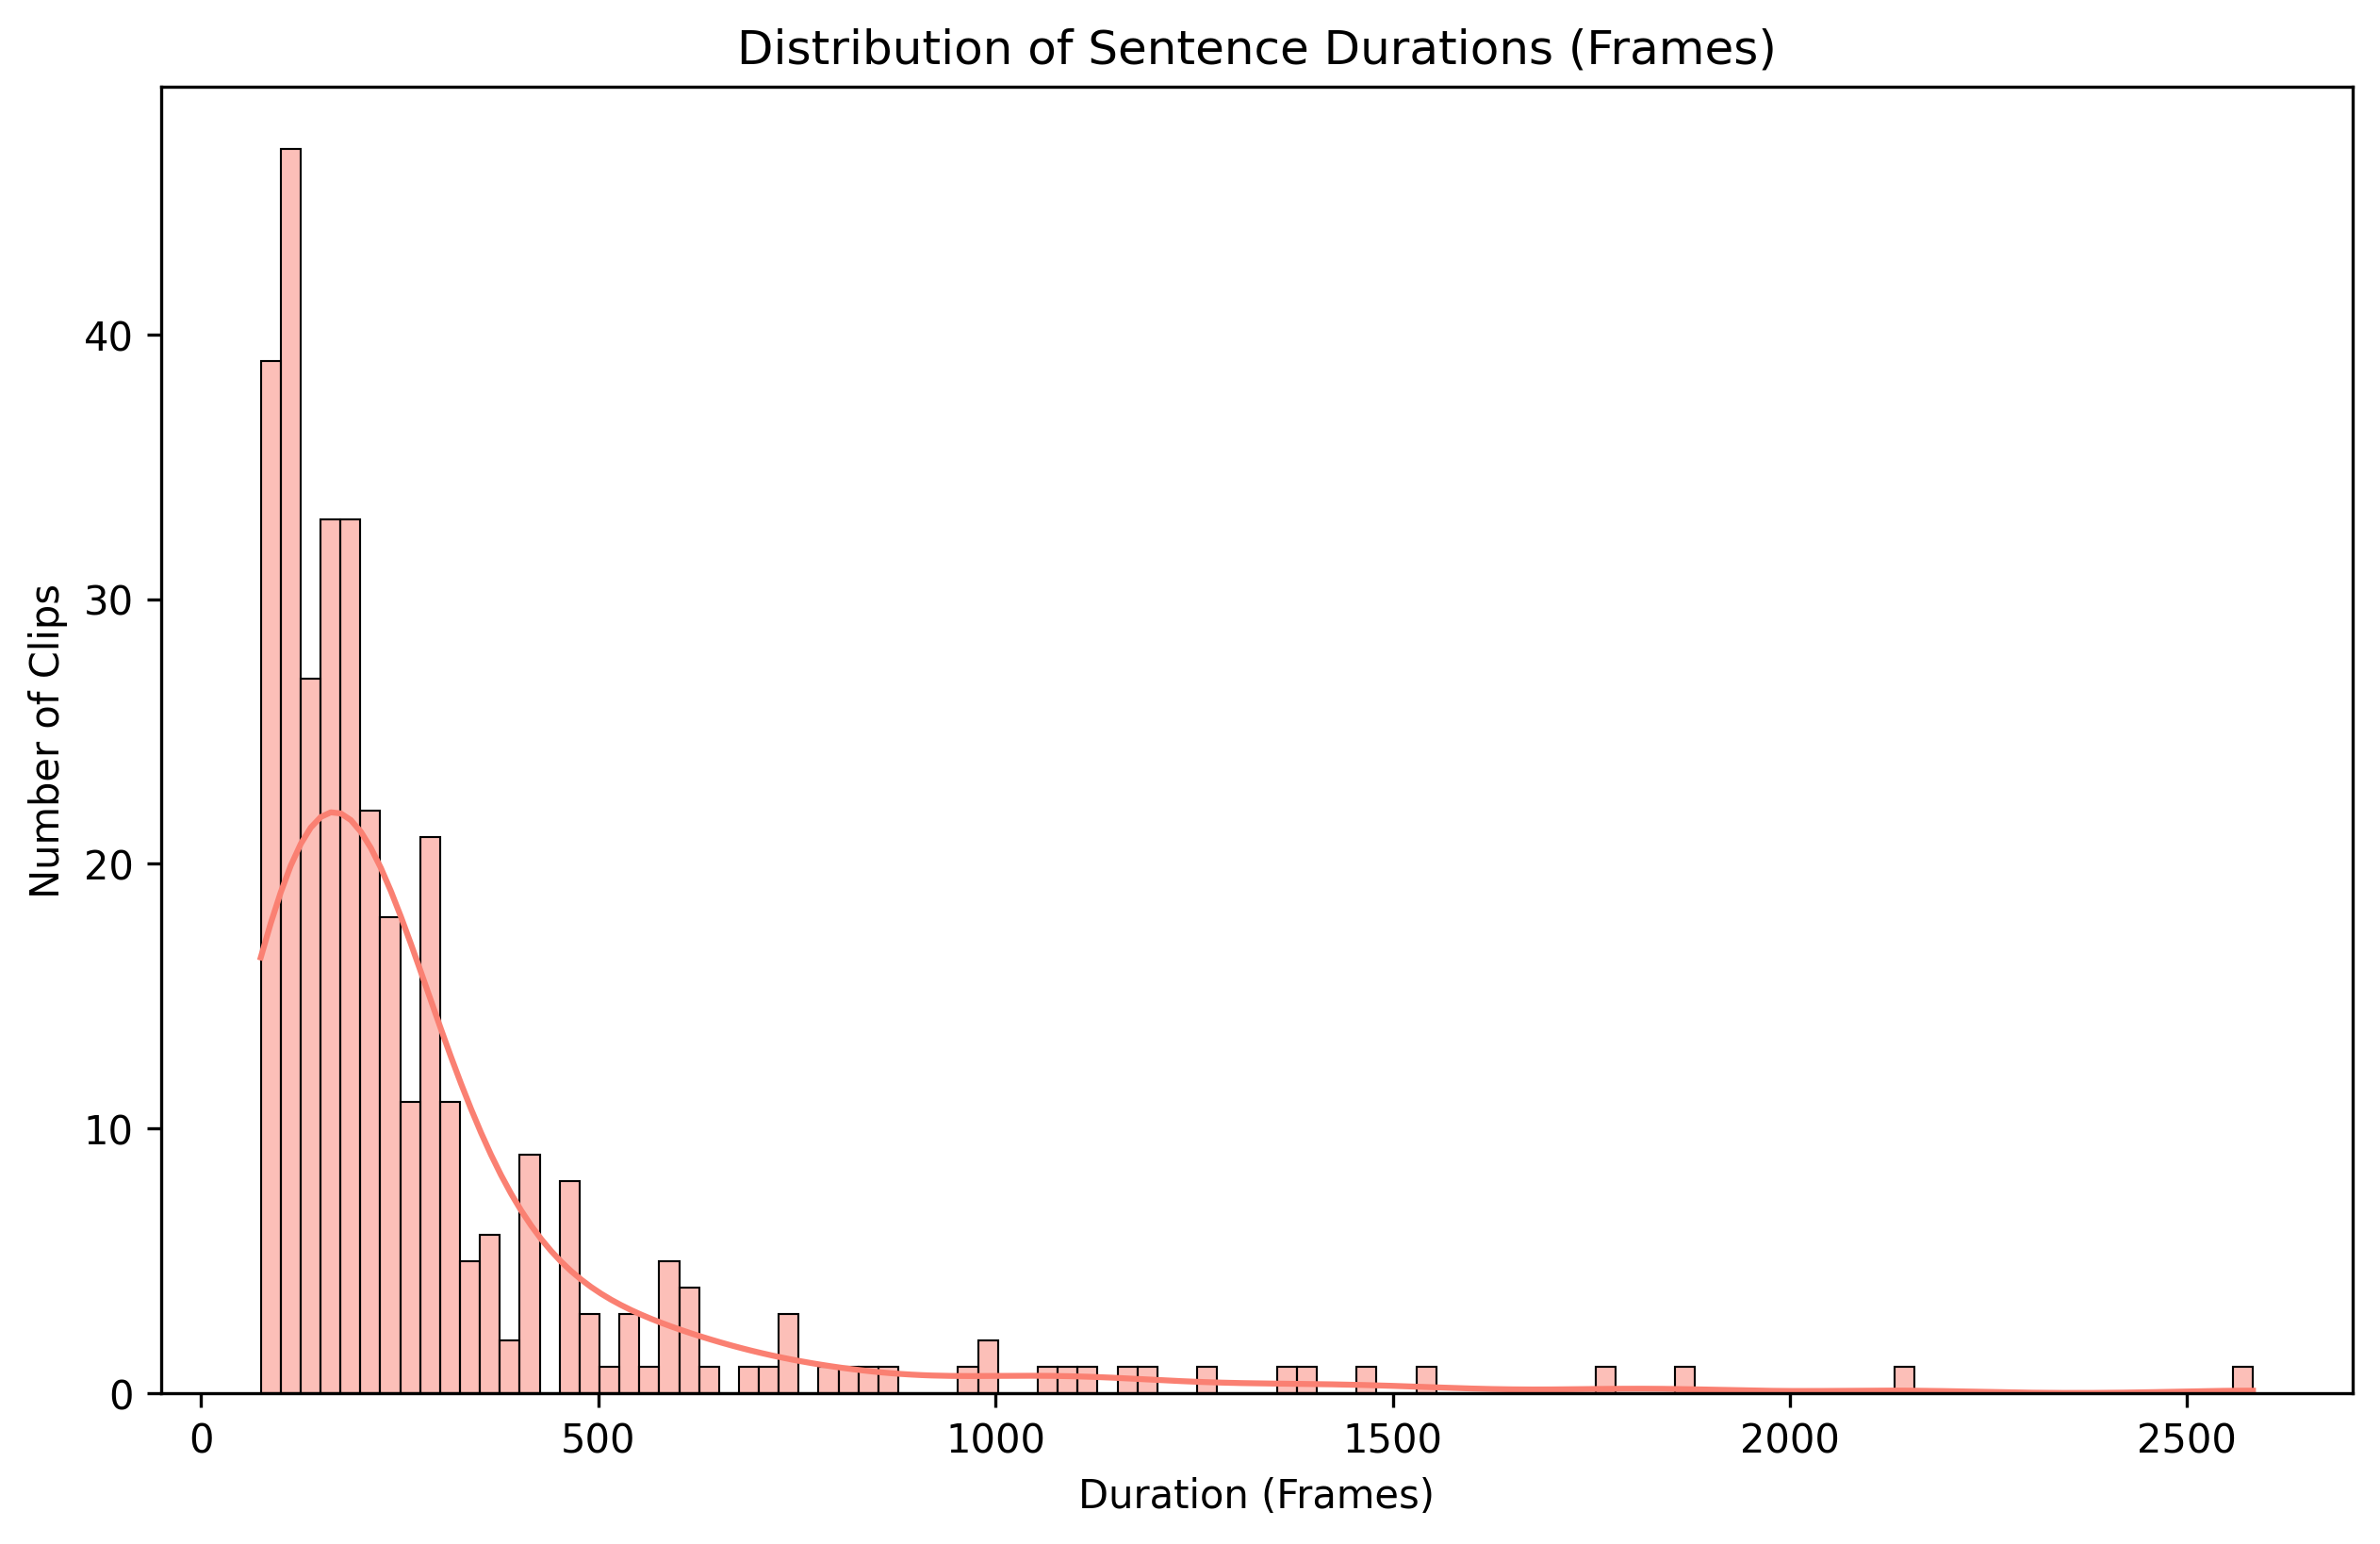
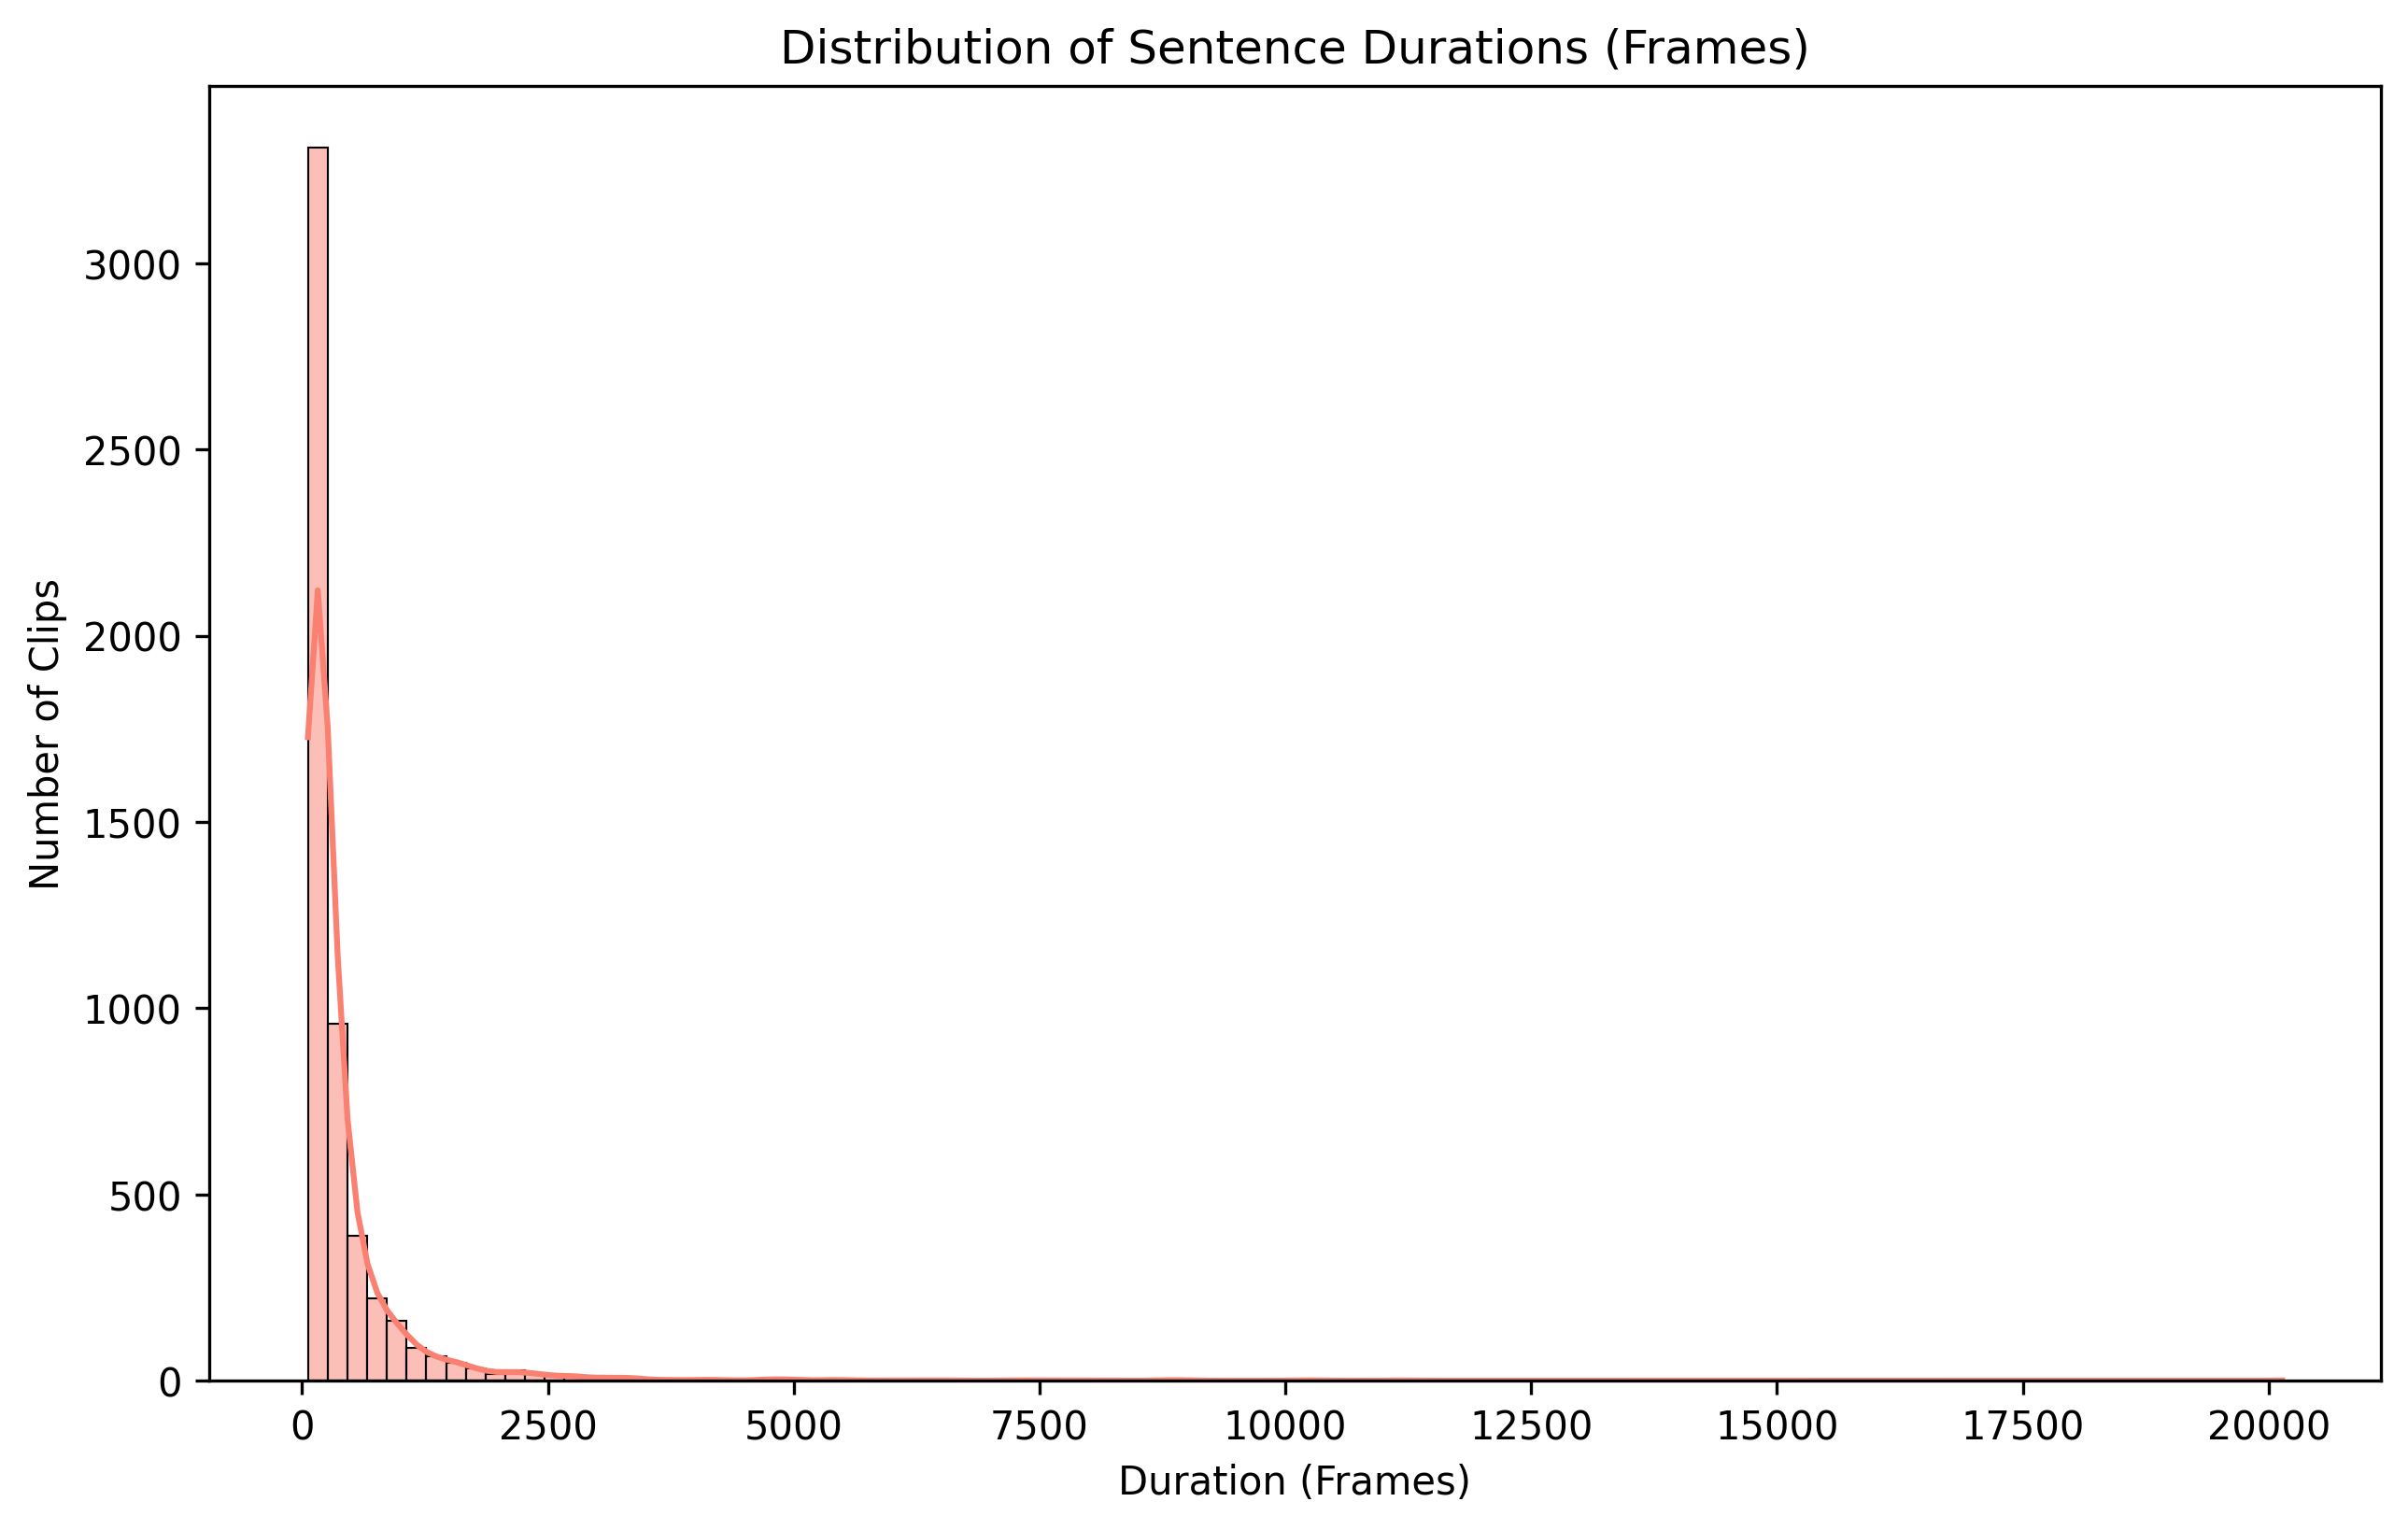
Small changes in dataset pipeline and runing main again

diff --git a/data_pipeline/04_extract_clips.py b/data_pipeline/04_extract_clips.py
@@ -19,9 +19,6 @@ from utils.visual_data import create_segments_debug_video
 
 load_dotenv()
 
-
-
-
 # Paths
 INPUT_VIDEO_DIR = os.getenv("DOWNLOAD_VIDEOS_DIR")
 INPUT_TRANSCRIPT_DIR = os.getenv("ROW_TRANSCRIPTS_DIR")
@@ -405,7 +402,7 @@ def main():
     # Create task list
     tasks = [(i+1, v) for i, v in enumerate(videos)]
     
-    optimal_workers = max(1, int(os.cpu_count()) // 3) # use 12 cores from 32 of my Intel Core i9-14900HX CPU,
+    optimal_workers = 4  # use 4 cores from 32 of my Intel Core i9-14900HX CPU
     print(f"Set {optimal_workers} workers for extract clips")
     results = []
 

diff --git a/utils/video_processing.py b/utils/video_processing.py
@@ -11,6 +11,7 @@ if parent_dir not in sys.path:
 
 from utils.config import FACE_ANCHORS, LIPS_INDICES
 
+
 def calc_movement_metrics(curr_lm, prev_lm, curr_yaw, prev_yaw, curr_ratio, prev_ratio):
     """
     Calculates the change between the current and previous landmarks.